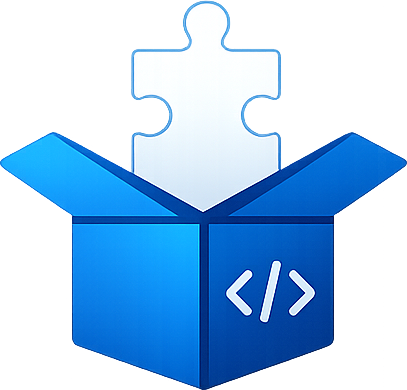
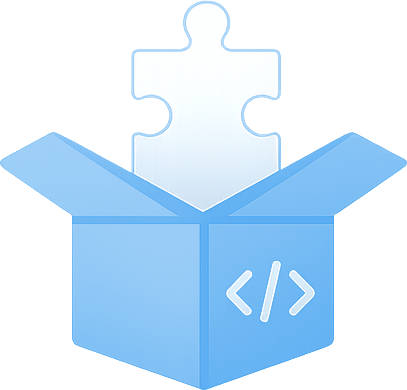
insert dark mode for MKDocs

diff --git a/docs/docs/stylesheets/extra.css b/docs/docs/stylesheets/extra.css
@@ -26,6 +26,30 @@
     --md-accent-bg-color--light: #ffffffb3;
 }
 
+/* === Dark mode — custom brand colors === */
+[data-md-color-scheme="slate"][data-md-color-primary="custom"] {
+    --md-primary-fg-color: #90CAF9;
+    --md-primary-fg-color--light: #BBDEFB;
+    --md-primary-fg-color--dark: #64B5F6;
+    --md-primary-bg-color: #1565C0;
+    --md-primary-bg-color--light: #1565C0b3;
+}
+
+[data-md-color-scheme="slate"][data-md-color-accent="custom"] {
+    --md-accent-fg-color: #64B5F6;
+    --md-accent-fg-color--transparent: #64b5f61a;
+    --md-accent-bg-color: #0D47A1;
+    --md-accent-bg-color--light: #0D47A1b3;
+}
+
+/* === Dark mode — decouple the header background from the (light) link/accent
+       color (--md-primary-fg-color stays light so links on dark content remain
+       readable). Header gets a deep brand blue + light foreground instead. === */
+[data-md-color-scheme="slate"] .md-header {
+    background-color: #0D47A1;
+    color: #E3F2FD;
+}
+
 /* === Logo-Größe im Header === */
 .md-header__button.md-logo img {
     height: 48px;
@@ -37,11 +61,22 @@
     display: inline-block;
     width: 320px;
     height: 52px;
-    background-image: url('../assets/images/inno-setup-banner.png');
+    background-image: url('../assets/images/inno-setup-banner.svg');
     background-repeat: no-repeat;
     background-position: left center;
     background-size: contain;
     color: transparent;
     vertical-align: middle;
+}
+
+/* === Dark mode — screenshot/image borders for readability === */
+[data-md-color-scheme="slate"] .md-content img:not([src$=".svg"]) {
+    border-radius: 6px;
+    box-shadow: 0 0 0 1px rgba(144, 202, 249, 0.15);
+}
+
+/* === Dark mode — admonition tint === */
+[data-md-color-scheme="slate"] .admonition {
+    border-color: #1E88E5;
 }
 
